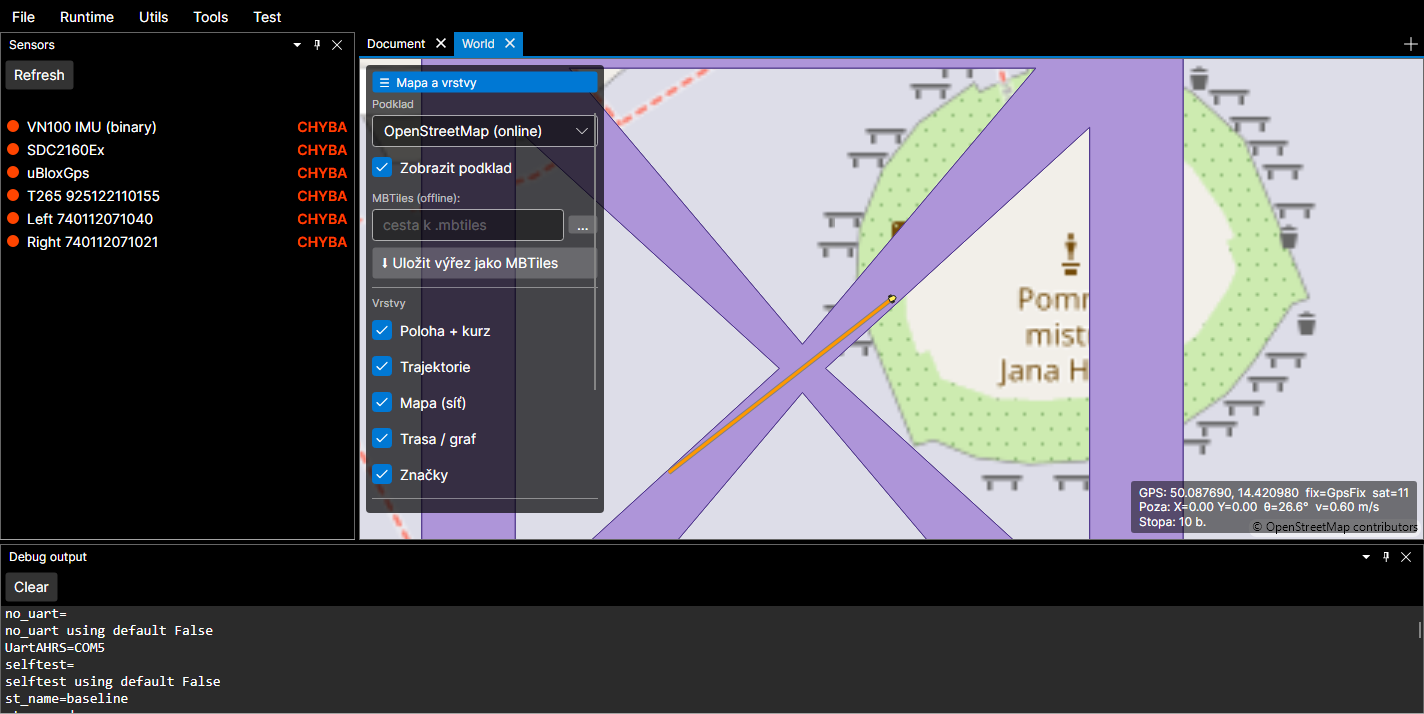
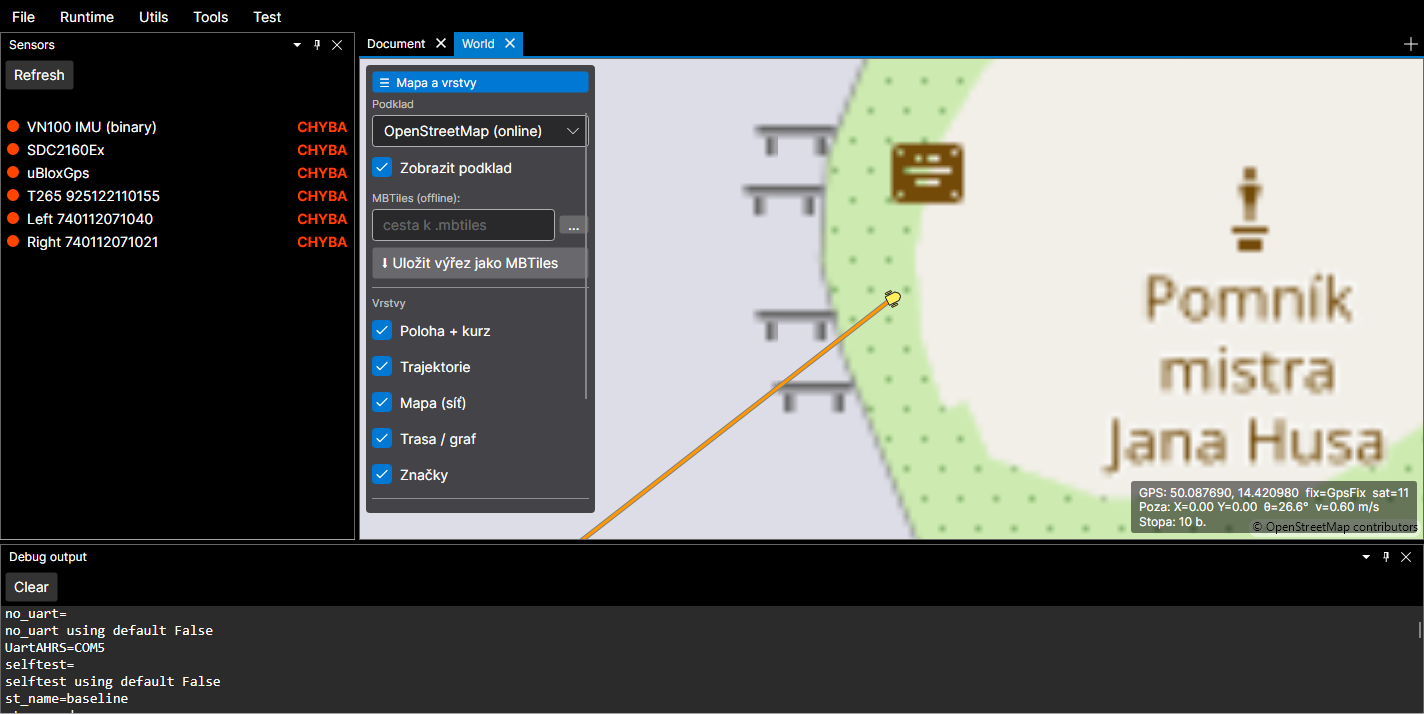
DevLog: dva obrázky World pohledu (6.8 bez šířek, 7.8 se šířkami)
Screenshot v deníku se dřív přepisoval do jednoho souboru, takže odkaz pod 6.8
ukazoval šířky cest, které vznikly až 7.8. Rozděleno na dva obrázky:
- world-view.png (6.8): World pohled bez OsmNav sítě (podklad, robot jako tvar,
  trajektorie, panel).
- world-view-road-width.png (7.8): síť z OsmNav se šířkami cest.
worldshot nyní pořizuje oba snímky (každý vlastní soubor).

Changed region(s): [[0.2781, 0.0616, 1.0, 0.7703], [0.2781, 0.7087, 0.3708, 0.7703], [0.2472, 0.0924, 0.2781, 0.1541]]

diff --git a/Src/ARBot/ViewModels/MainWindowViewModel.WorldShot.cs b/Src/ARBot/ViewModels/MainWindowViewModel.WorldShot.cs
@@ -44,6 +44,19 @@ namespace ARBot.ViewModels
                 });
                 if (doc == null) return;
 
+                // Zachyti hlavni okno do doc/media pod danym nazvem (kazdy snimek vlastni soubor).
+                async Task CaptureWorld(string name)
+                {
+                    await Dispatcher.UIThread.InvokeAsync(() =>
+                    {
+                        string path = Path.Combine(SelfTest.MediaDir(), name);
+                        if (App.MainTopLevel is Visual v && ScreenCapture.SavePng(v, path))
+                            System.Diagnostics.Debug.WriteLine("WorldShot: " + path);
+                        else
+                            System.Diagnostics.Debug.WriteLine("WorldShot: screenshot se nezdaril (" + name + ")");
+                    });
+                }
+
                 // Synteticka trajektorie + poloha (Praha) - postupne, aby se stopa naakumulovala
                 // (Post koalescuje "latest-wins", takze mezi body je potreba nechat probehnout flush).
                 double lat0 = 50.08758, lon0 = 14.42076;
@@ -69,30 +82,29 @@ namespace ARBot.ViewModels
                     V = 0.6,
                 }));
 
-                // Nacti malou vzorovou OSM sit u robota (overi cestu MapMsg + vrstva "Mapa").
-                string osmPath = Path.Combine(Path.GetTempPath(), "arbot-worldshot.osm");
-                await File.WriteAllTextAsync(osmPath, SampleOsm);
-                await Dispatcher.UIThread.InvokeAsync(() => doc.LoadOsmMapAsync(osmPath));
+                await Task.Delay(3500);   // nech nacist dlazdice OSM
 
-                await Task.Delay(3500);   // nech nacist dlazdice OSM + sestavit sit
-
-                // Hluboky zoom na robota, aby byl videt jeho metricky tvar (nad max dlazdic = overzoom).
+                // --- Snimek 1: obecny World pohled (robot jako metricky tvar), jeste BEZ OsmNav mapy. ---
                 await Dispatcher.UIThread.InvokeAsync(() =>
                 {
                     var (mx, my) = SphericalMercator.FromLonLat(lon0 + (steps - 1) * dLon, lat0 + (steps - 1) * dLat);
-                    doc.Map.Navigator.CenterOnAndZoomTo(new MPoint(mx, my), 0.10);   // vidět celou síť + proměnnou šířku
+                    doc.Map.Navigator.CenterOnAndZoomTo(new MPoint(mx, my), 0.05);   // videt metricky tvar robota
                 });
+                await Task.Delay(2500);
+                await CaptureWorld("world-view.png");
 
-                await Task.Delay(3500);   // nech dorenderovat po zoomu
-
+                // --- Snimek 2: sit z OsmNav se sirkami cest (vrstva "Mapa (sit)"). ---
+                string osmPath = Path.Combine(Path.GetTempPath(), "arbot-worldshot.osm");
+                await File.WriteAllTextAsync(osmPath, SampleOsm);
+                await Dispatcher.UIThread.InvokeAsync(() => doc.LoadOsmMapAsync(osmPath));
+                await Task.Delay(3000);   // nech sestavit + vykreslit sit
                 await Dispatcher.UIThread.InvokeAsync(() =>
                 {
-                    string path = Path.Combine(SelfTest.MediaDir(), "world-view.png");
-                    if (App.MainTopLevel is Visual v && ScreenCapture.SavePng(v, path))
-                        System.Diagnostics.Debug.WriteLine("WorldShot: " + path);
-                    else
-                        System.Diagnostics.Debug.WriteLine("WorldShot: screenshot se nezdaril");
+                    var (mx, my) = SphericalMercator.FromLonLat(lon0 + (steps - 1) * dLon, lat0 + (steps - 1) * dLat);
+                    doc.Map.Navigator.CenterOnAndZoomTo(new MPoint(mx, my), 0.10);   // cela sit + promenna sirka
                 });
+                await Task.Delay(3000);
+                await CaptureWorld("world-view-road-width.png");
             }
             catch (Exception ex)
             {

diff --git a/doc/devlog.md b/doc/devlog.md
@@ -43,6 +43,9 @@ větou a **odkaž** do `decisions.md`; detaily domény odkaž do příslušného
   (Mercator). V panelu pole **„Šířka cesty [m]"** (`DefaultRoadWidthMeters`, `NumericUpDown`) se uplatní
   při načtení. Ověřeno: OsmNav testy 76/76, screenshot (vzorová `.osm`: obvod `width=6`, diagonály default 2
   → viditelný taper + hladké křižovatky). Build x64 zeleno.
+
+  ![Mapa z OsmNav se šířkami cest: obvod (OSM width=6 m) široký, diagonály se zužují k prostřednímu uzlu (default 2 m), hladké křižovatky](media/world-view-road-width.png)
+
 - **Fix UI: panel „Mapa a vrstvy" přetékal.** Tělo panelu (`ScrollViewer`) mělo pevný `MaxHeight=440`,
   takže na nižším okně obsah přetékal pod mapu bez scrollbaru. Nově se `MaxHeight` odvíjí od výšky mapy
   (`$parent[Grid].Bounds.Height` − chrome, přes `SubtractConverter`) → scrollbar naskočí přesně, když se
